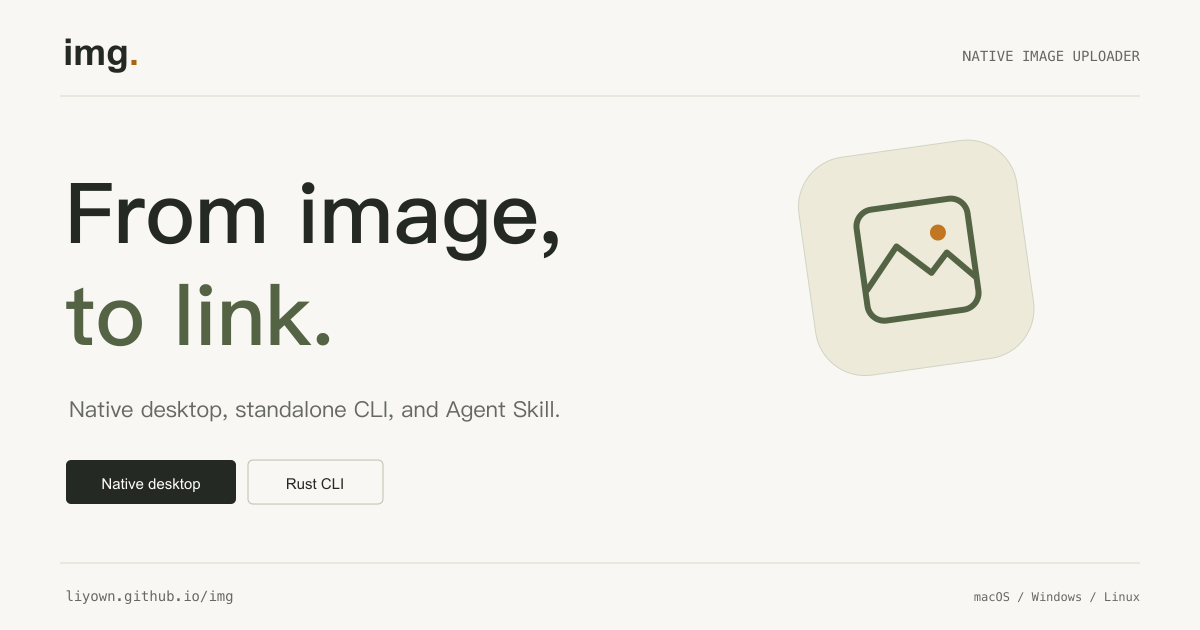
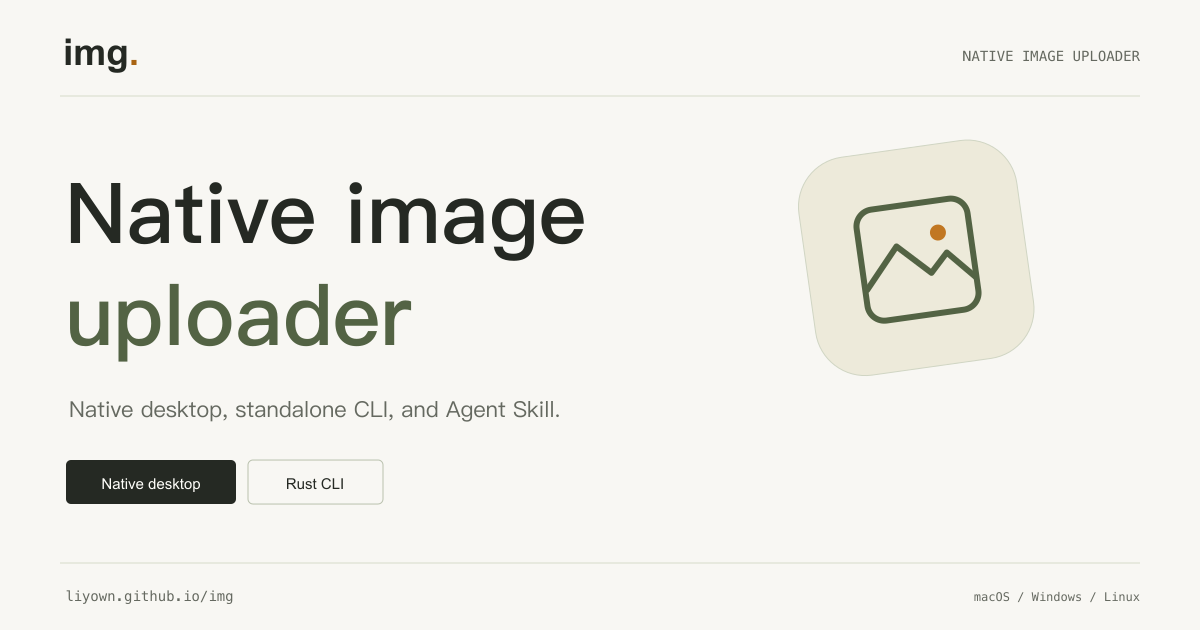
fix(site): align landing page with desktop and automation workflows

Changed region(s): [[0.0617, 0.2714, 0.4933, 0.4222], [0.0308, 0.4524, 0.3392, 0.573]]

diff --git a/site/src/styles/global.css b/site/src/styles/global.css
@@ -282,6 +282,57 @@ a:hover {
   margin: 26px auto 28px;
   letter-spacing: 0.01em;
 }
+.hero h1.product-title {
+  font-size: clamp(44px, 6.5vw, 92px);
+  letter-spacing: -0.045em;
+}
+.hero-description {
+  max-width: 760px;
+}
+.agent-section {
+  display: grid;
+  grid-template-columns: minmax(0, 1fr) minmax(0, 1fr);
+  gap: 64px;
+  align-items: start;
+}
+.agent-intro h2 {
+  margin: 12px 0 20px;
+}
+.agent-intro p {
+  color: var(--muted);
+  line-height: 1.8;
+  margin-bottom: 20px;
+}
+.agent-examples {
+  min-width: 0;
+}
+.agent-code {
+  padding: 24px;
+  margin-bottom: 16px;
+  border: 1px solid var(--line);
+  border-radius: 12px;
+  background: var(--paper);
+}
+.agent-code > span {
+  color: var(--muted);
+  font-size: 12px;
+}
+.agent-code pre {
+  margin: 16px 0 0;
+  white-space: pre-wrap;
+  overflow-wrap: anywhere;
+  font-size: 14px;
+  line-height: 1.8;
+}
+@media (max-width: 760px) {
+  .agent-section {
+    grid-template-columns: minmax(0, 1fr);
+    gap: 28px;
+  }
+  .agent-code {
+    padding: 20px;
+  }
+}
 .actions {
   display: flex;
   align-items: center;

diff --git a/site/src/lib/comparison.ts b/site/src/lib/comparison.ts
@@ -6,10 +6,10 @@ export const evidence = {
   products: [
     {
       name: 'img',
-      version: '0.3.0 preview',
-      bytes: 25796913,
-      source: 'https://github.com/liyown/img/blob/main/site/QA.md',
-      kind: 'local-artifact',
+      version: '0.3.0',
+      bytes: 26268008,
+      source: 'https://github.com/liyown/img/releases/tag/desktop-v0.3.0',
+      kind: 'official-release',
     },
     {
       name: 'PicGo',
@@ -36,10 +36,10 @@ export const evidence = {
     },
   ],
   cli: {
-    bytes: 6966652,
+    bytes: 7088101,
     platform: 'macOS ARM64',
     package: 'tar.gz',
-    version: '0.3.0 preview',
+    version: '0.3.0',
   },
   benchmark: {
     version: '0.3.0',

diff --git a/site/src/content/docs/en/desktop.md b/site/src/content/docs/en/desktop.md
@@ -28,9 +28,9 @@ Copy as URL, Markdown image, Markdown link, HTML, or BBCode. Automatic copying i
 | App preferences       | Shortcuts and interface preferences                                                   |
 | About and updates     | Version, diagnostics, CLI entry point, manual update checks                           |
 
-Dark mode, remote library management, tags, folder imports, and automatic app replacement are not available in this preview. The current app UI is Chinese.
+Dark mode, remote library management, tags, and folder imports are not available. The current app UI is Chinese.
 
-## Windows and quick actions
+## macOS window and quick actions
 
 Closing the window or pressing ⌘W hides it while uploads continue. ⌘Q exits; during uploads you can wait for completion or pause and exit. The menu bar offers Open, Upload clipboard, Capture and upload, Pause/resume, and Quit.
 

diff --git a/site/src/content/docs/zh/desktop.md b/site/src/content/docs/zh/desktop.md
@@ -28,7 +28,7 @@ order: 2
 | 应用偏好       | 快捷键与界面偏好                                           |
 | 关于与更新     | 版本、诊断、添加 CLI 入口、手动检查更新                    |
 
-当前无深色主题、远端图库管理、标签、文件夹导入或自动替换应用的升级功能。
+当前无深色主题、远端图库管理、标签或文件夹导入功能。
 
 ## 窗口与快捷操作
 
